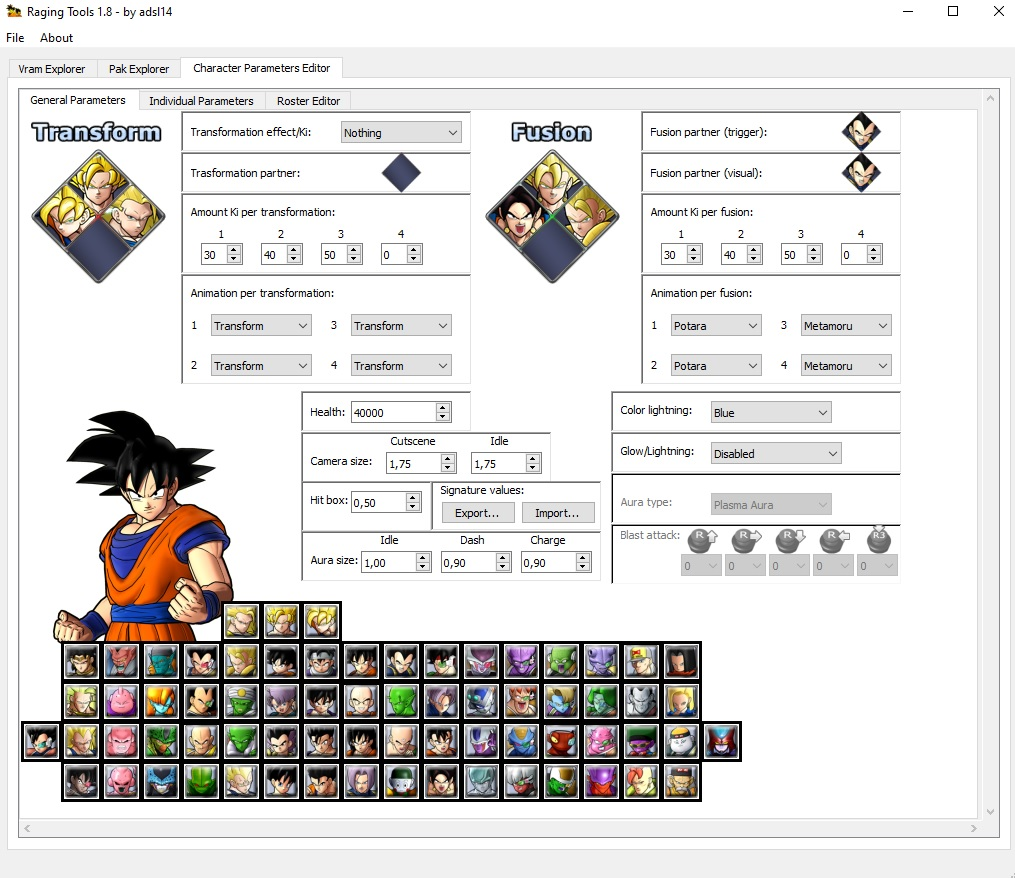
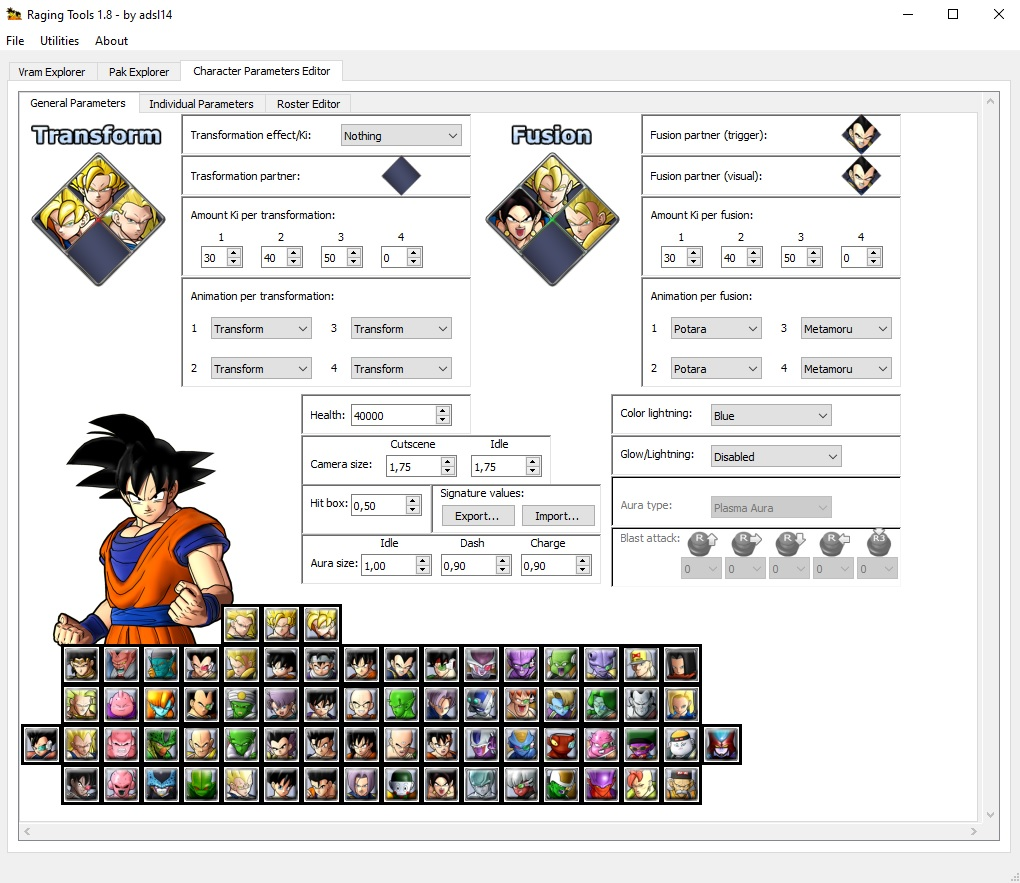
Updated README with the new functionalities.

diff --git a/Raging_Tools.py b/Raging_Tools.py
@@ -1224,7 +1224,7 @@ class MainWindow(QtWidgets.QMainWindow, Ui_MainWindow):
                     '<li>To <b><a href=https://twitter.com/SSJLVegeta>SSJLVegeta</a></b> for his contributions.</li>'
                     '<li>To <b><a href=https://www.youtube.com/channel/UC4fHq0fbRMtkcW8ImfQO0Ew>LBFury</a></b>'
                     ' for his contributions.</li>'
-                    '<li>To the <a href=https://discord.gg/JpCvDCgpnb>Raging Blast Modding community</a>.</li>'
+                    '<li>To the <a href=https://discord.gg/nShbGxDQsx>Raging Blast Modding community</a>.</li>'
                     '</ul>')
         msg.exec()
 

diff --git a/README.md b/README.md
@@ -45,6 +45,73 @@ if the path in Windows is very large, the tool will <b>crash!</b>
 Windows has a limit for the path name, so run the tool in a place where the path is not too long.</li>
 </ul>
 
+## Description
+
+This tool has several options, distributed in tabs. Each of one will be explained in the following sections. 
+We will explain first the ones that are on the top of the tool and, after that, the ones that are below.
+
+## File
+
+You can open a file, save it, or close the application. Moreover, for each task, you have a keyboard shortcut.
+The type of file you can open or save, will be explained in the following sections.
+
+<img src="images/file_tab.jpg" alt="file_tab_image" width="20%">
+
+## Utilities
+
+Utilities has some individual tasks you can use. The utilities are <i>Compressor</i>, <i>Packer</i> and
+<i>Converter</i>
+
+<img src="images/utilities_tab.jpg" alt="file_tab_image" width="20%">
+
+### Compressor
+
+<i>Compressor</i> will use the <i>dbrb_compressor.exe</i> made by <b>revelation (revel8n)</b>. In this option, you can
+encrypt or decrypt a single file, or multiple files. The supported files are <i>.zpak</i> <b>(STPZ)</b> and <i>.pak</i>
+<b>(STPK)</b> files.
+The <i>dbrb_compressor.exe</i> will detect if the input file needs
+an encryption or decryption, so there is no need to specify what you need to do.
+
+For the single file option, the tool will generate the output in the same path where the input is located. If is a decryption,
+the output file will be <i>.pak</i>. If is a encryption, the output file will be <i>.zpak</i>
+
+For the multiple files option, the tool will ask you the path of the 
+folder where the files you want to encrypt or decrypt. The tool will create a folder with the output files, in the same
+path where the folder input is located. The name of the output folder will be the same as the input folder, but with the
+datetime of creation.
+
+<img src="images/utilities_tab_compressor.jpg" alt="utilities_tab_compressor" width="40%">
+
+### Packer
+
+<i>Packer</i> will unpack the files that are packed as a <i>.pak</i>, or pack a folder with files, creating a output
+as a <i>.pak</i> file.
+
+Like the previous task, you can unpack or pack, a file or folder respectively, a single one or massivelly.
+
+<img src="images/utilities_tab_packer_unpack.jpg" alt="utilities_tab_packer_unpack" width="40%">
+<img src="images/utilities_tab_packer_pack.jpg" alt="utilities_tab_packer_unpack" width="36%">
+
+### Converter
+
+In this tab, you can convert the files to another format. The options are <i>SPA</i> and <i>JSON</i>
+
+You can convert a single <i>SPA</i> to a <JSON> file, or select a folder with some <i>SPA</i> files
+and convert all of them, to the <i>JSON</i> format. The same goes if you want to convert from <i>JSON</i>
+to <i>SPA</i>
+
+<img src="images/utilities_tab_converter_spa.jpg" alt="utilities_tab_converter_spa" width="40%">
+<img src="images/utilities_tab_converter_json.jpg" alt="utilities_tab_converter_json" width="34%">
+
+### About
+
+In this tab you can check the author of the tool, go to the <i>GitHub</i> repository where is explained how to use
+the tool, and the people that contribuited in the development of this tool. There is also a link to the <b>Discord</b>
+server of the **Raging Blast modding community** where you can join and stay tunned about the news in the modding of
+this series.
+
+<img src="images/about_tab.jpg" alt="about_tab" width="30%">
+
 ## Vram Explorer
 
 <img src="images/vram_explorer_main.jpg" alt="vram_explorer_image" width="50%">
@@ -148,6 +215,14 @@ properties to the character you want to change the background color.
 
 The signature can also be swapped too. However, if you're trying to incorporate a signature that triggers a Ki blast,
 you need to change the <i>Signature Ki blast</i> values in order to execute the signature propertly.
+
+For the animations, you can export the bones to the <i>.json</i> format and mix the bones in that output file. Then,
+you can import the <i>.json</i> file.
+Moreover, in the bones section, there is a option called <i>Layer</i>. Since this tool when
+opens this kind of files, some <i>spa</i> files are mixed into a custom <i>spas</i> file, that have several <i>spa</i>
+data inside, the layer option will let you select, from the _spas_  file, which <i>spa</i> file you want to edit.
+Also, for each _rotation_, _translation_ and _unknown_ (this one needs more research. Some <i>spa</i> files has those values),
+there is a <i>block</i> section which is related (I think), to the frames of the animation.
 
 In order to use this tab, you have open the <i>operate_character_XYZ_m.zpak</i> (Where XYZ are generic numbers) 
 located in <i>st_pack_battle_character_pt_ps3.afs and st_pack_battle_character_pt_x360.afs (Raging Blast 2)</i>.
